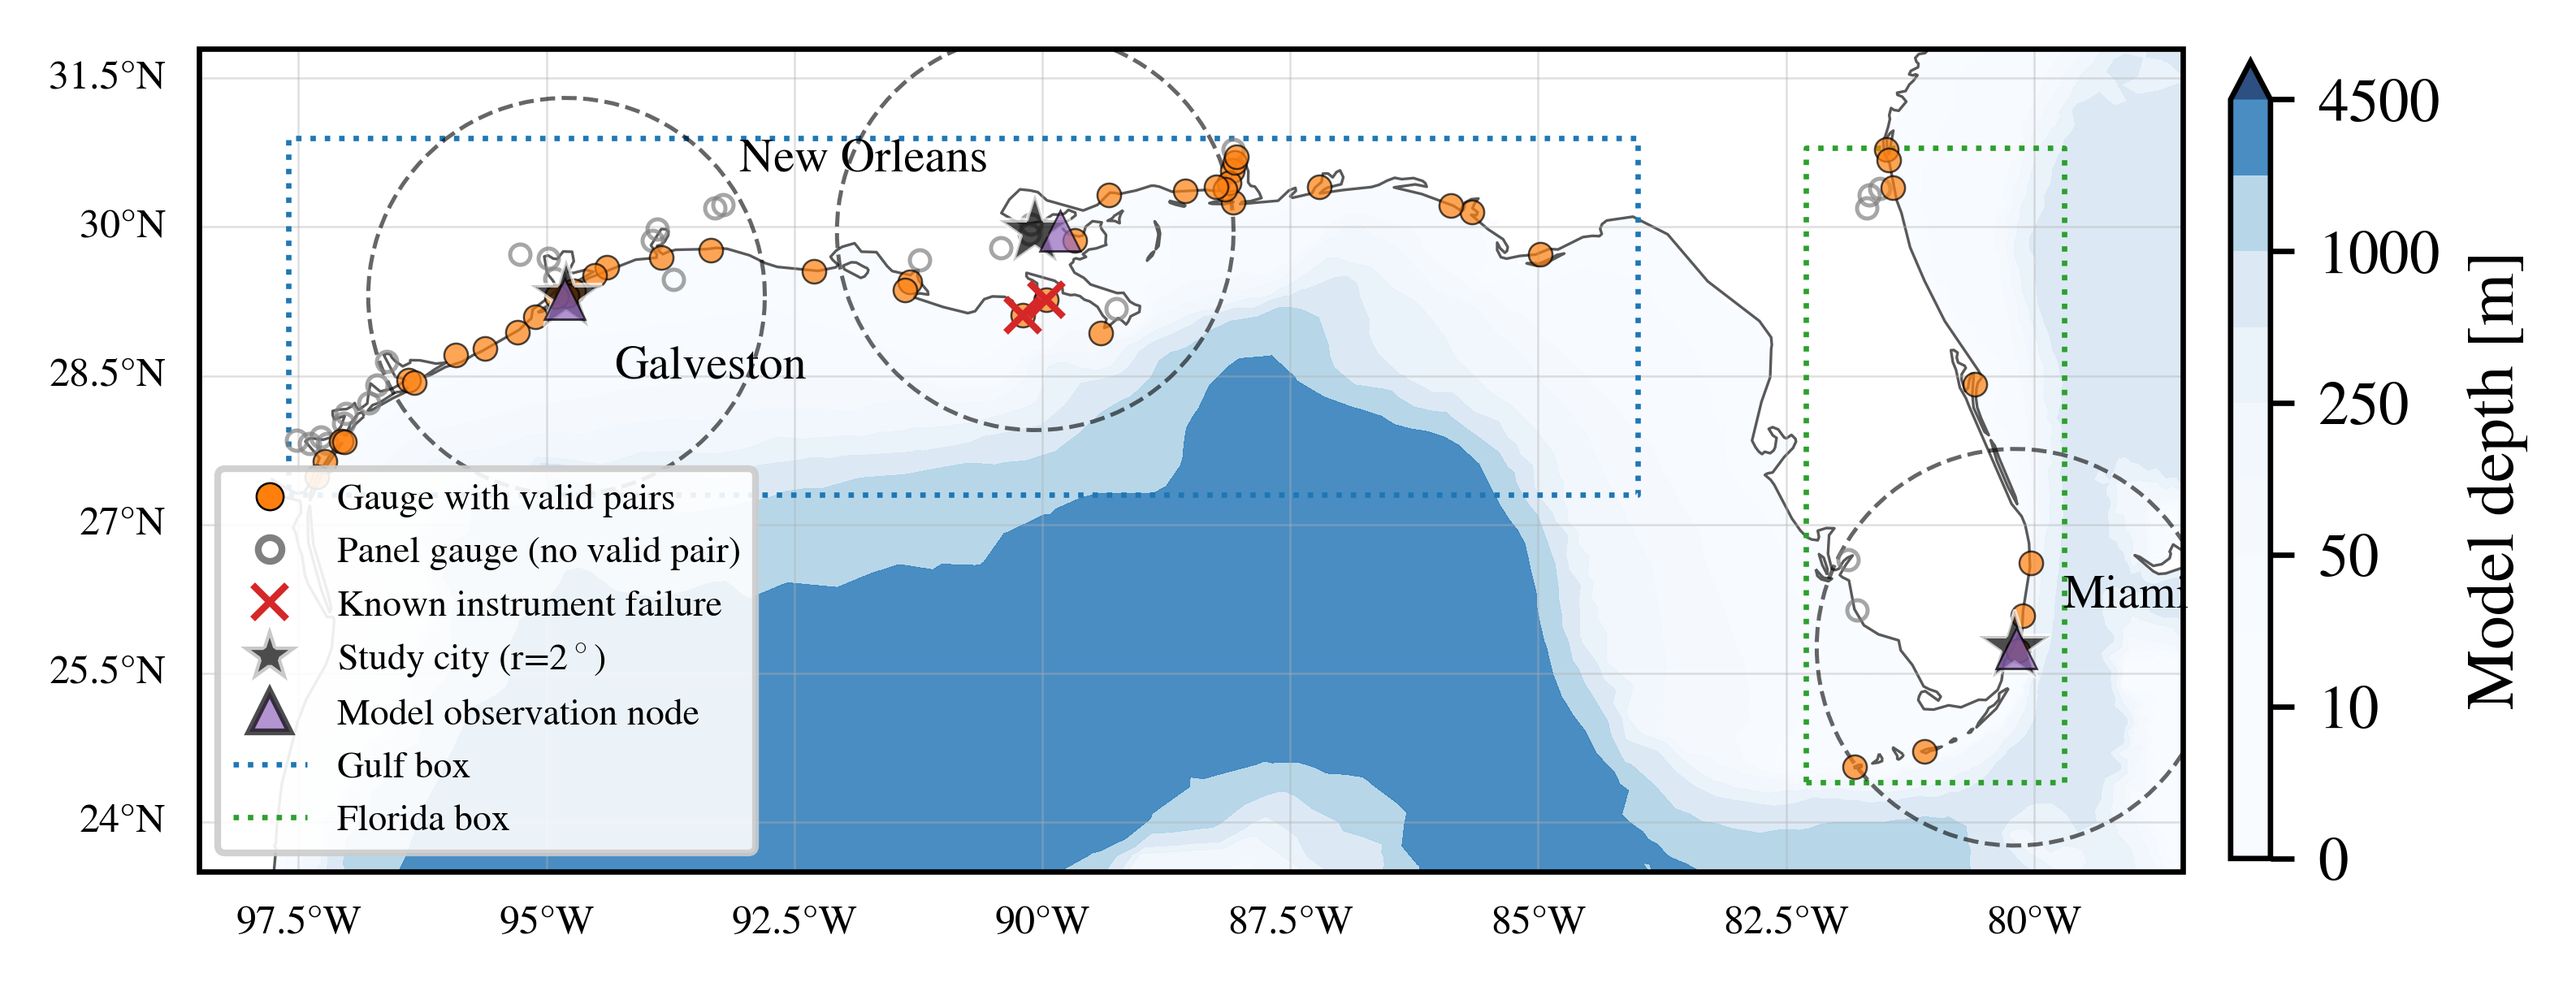
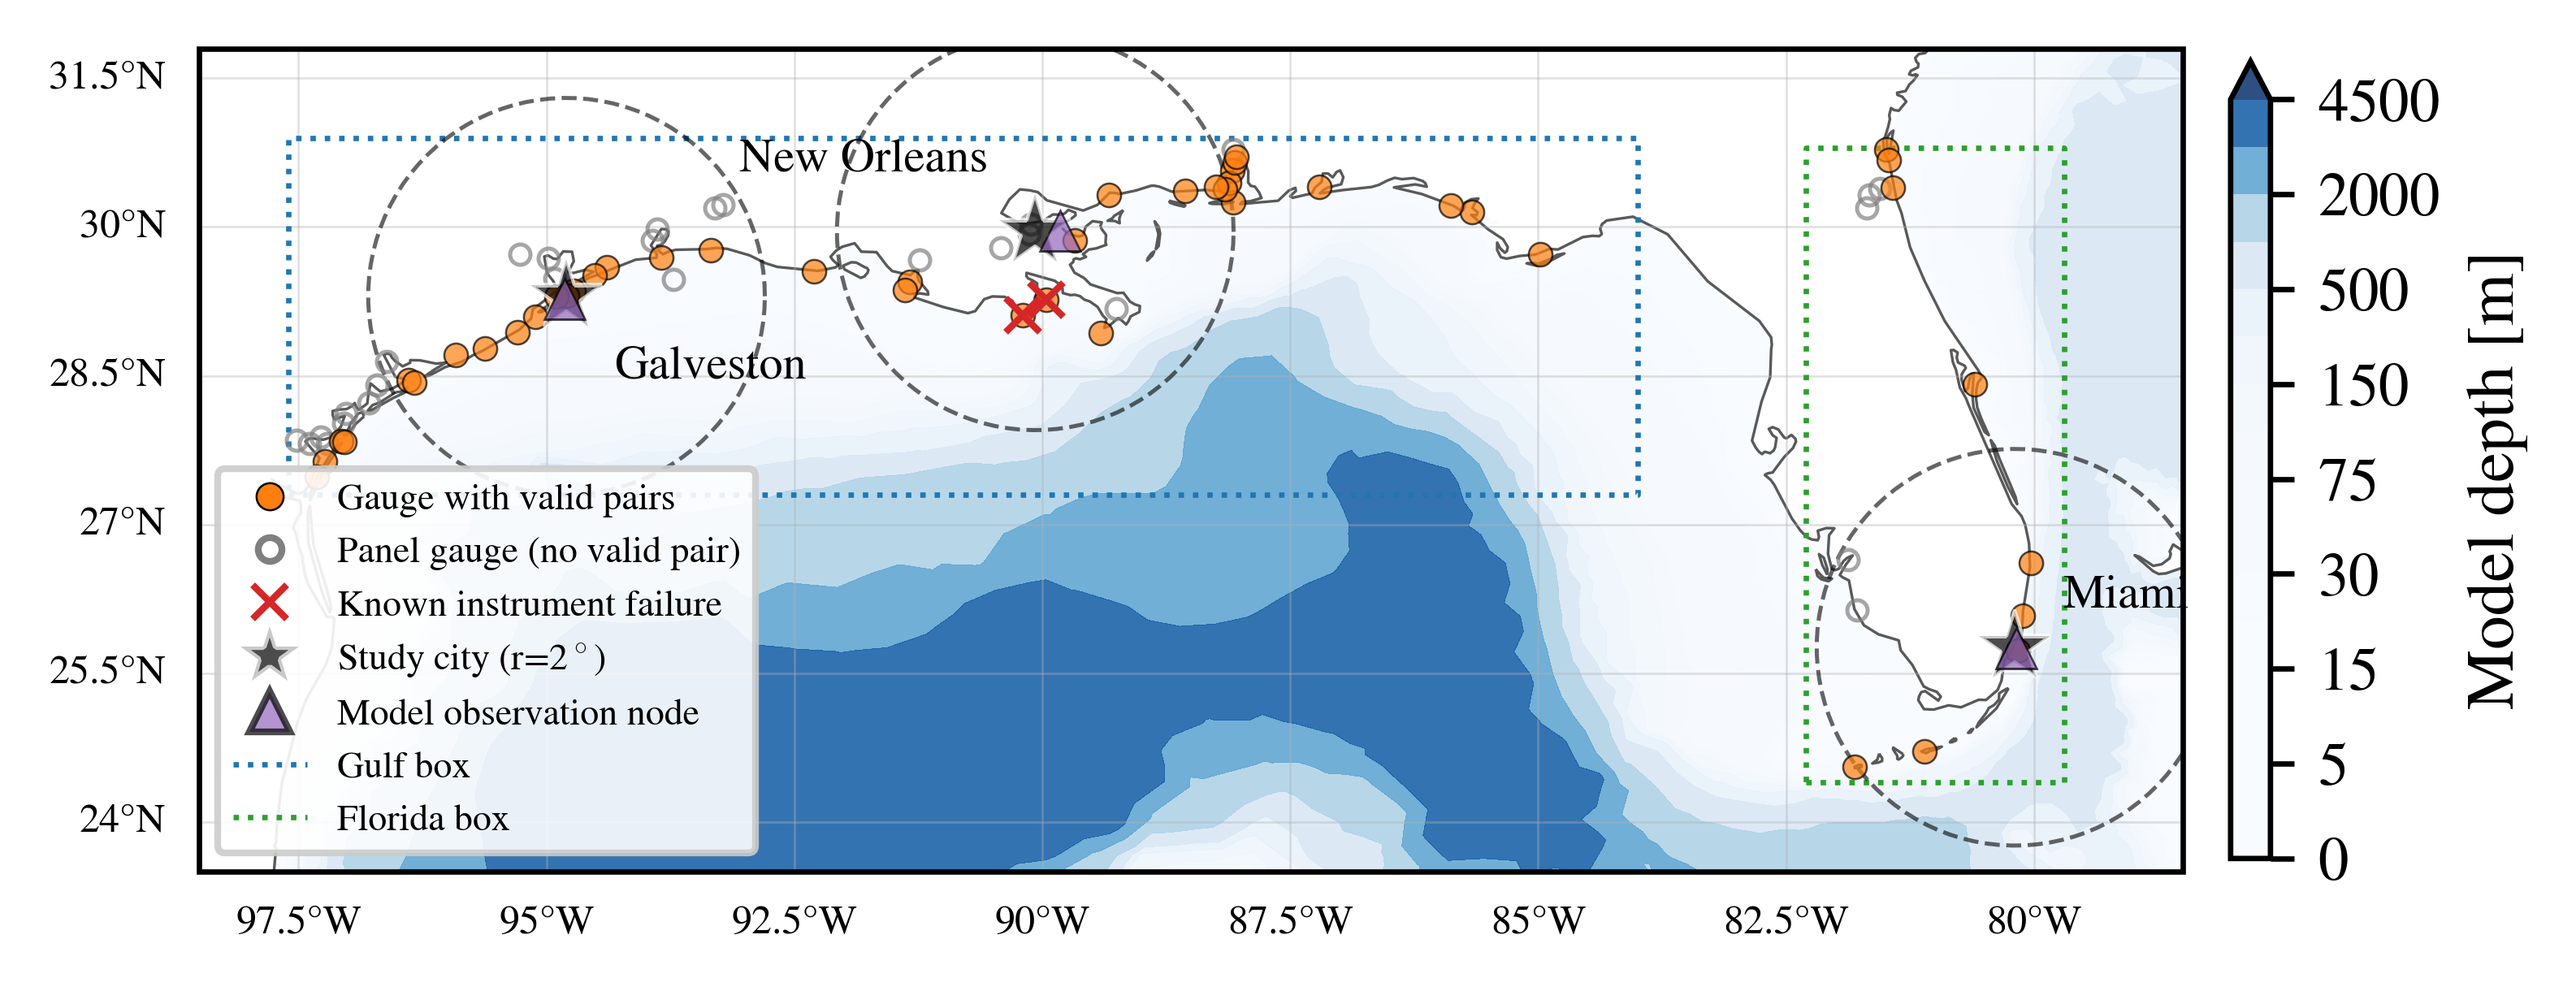
eval city maps: numbered gauges + index key row, finer depth levels
In-map name labels could not be made collision-free in dense clusters
(Mobile Bay, downtown New Orleans); replaced with west->east numbered dots
(white-halo digits) and a three-column full-name key in a dedicated axes
row under the map (cartopy's aspect-locked GeoAxes ignores
subplots_adjust, so the key needs real gridspec space). Bathymetry levels
refined (17 steps, extra shallow-water resolution) so shelf features and
the colorbar read properly.

diff --git a/adforce/eval/validate.py b/adforce/eval/validate.py
@@ -635,7 +635,7 @@ def _draw_mesh_bathymetry(ax, plt, transform=None, edges: bool = True):
     ax.tricontourf(  # model land
         tri, depth, levels=[depth.min() - 1.0, 0.0], colors=["0.92"], zorder=0, **kw
     )
-    levels = [0, 5, 10, 20, 50, 100, 250, 500, 1000, 2000, 4500]
+    levels = [0, 2, 5, 10, 15, 20, 30, 50, 75, 100, 150, 250, 500, 1000, 2000, 3000, 4500]
     cs = ax.tricontourf(
         tri, depth, levels=levels, cmap="Blues", extend="max", zorder=0.4, alpha=0.85, **kw
     )
@@ -962,8 +962,11 @@ def plot_city_gauge_maps(max_deg: float = 2.0) -> None:
             import cartopy.crs as ccrs
             import cartopy.feature as cfeature
 
-            fig = plt.figure(figsize=get_dim(ratio=0.85))
-            ax = plt.axes(projection=ccrs.PlateCarree())
+            fig = plt.figure(figsize=get_dim(ratio=1.05))
+            gs = fig.add_gridspec(2, 1, height_ratios=(4.0, 1.05), hspace=0.14)
+            ax = fig.add_subplot(gs[0], projection=ccrs.PlateCarree())
+            ax_key = fig.add_subplot(gs[1])
+            ax_key.axis("off")
             ax.add_feature(
                 cfeature.COASTLINE.with_scale("10m"), lw=0.5, edgecolor="0.35", zorder=1
             )
@@ -973,7 +976,11 @@ def plot_city_gauge_maps(max_deg: float = 2.0) -> None:
             cs = _draw_mesh_bathymetry(ax, plt, transform=ccrs.PlateCarree(), edges=True)
         except Exception as e:  # pragma: no cover
             print(f"(no cartopy coastline: {e})")
-            fig, ax = plt.subplots(figsize=get_dim(ratio=0.85))
+            fig, (ax, ax_key) = plt.subplots(
+                2, 1, figsize=get_dim(ratio=1.05),
+                gridspec_kw={"height_ratios": (4.0, 1.05), "hspace": 0.14},
+            )
+            ax_key.axis("off")
             ax.grid(alpha=0.3)
             cs = _draw_mesh_bathymetry(ax, plt, edges=True)
 
@@ -996,42 +1003,53 @@ def plot_city_gauge_maps(max_deg: float = 2.0) -> None:
             zorder=2,
         )
 
-        # gauges in extent, sorted by latitude for the label stagger
+        # gauges in extent, numbered west -> east: tiny numbers at the dots
+        # and a full-name index key under the map (long names never collide)
+        import matplotlib.patheffects as pe
+
         local = sorted(
             (
                 (sid, n, la, lo)
                 for sid, (n, la, lo) in gauges.items()
                 if abs(lo - clo) <= m and abs(la - cla) <= m
             ),
-            key=lambda t: -t[2],
+            key=lambda t: t[3],
         )
-        # cluster-indexed offset ladder: the k-th label inside a congested
-        # patch gets the k-th vertical offset, so e.g. the six Mobile-Bay
-        # gauges fan out instead of overprinting
-        DY = (3, 12, -11, 21, -20, 30, -29, 39)
-        placed = []
-        for sid, name, la, lo in local:
+        key_lines = []
+        for k, (sid, name, la, lo) in enumerate(local, start=1):
             if sid in valid_sids:
                 ax.plot(lo, la, "o", ms=4, color="tab:orange", mec="k", mew=0.3, alpha=0.7, zorder=4)
             else:
                 ax.plot(lo, la, "o", ms=3.5, mfc="none", mec="0.5", mew=0.6, alpha=0.7, zorder=3)
             if sid in failed_sids:
                 ax.plot(lo, la, "x", ms=6, color="tab:red", mew=1.0, zorder=5)
-            near = sum(
-                1 for pla, plo in placed if abs(pla - la) < 0.16 and abs(plo - lo) < 1.6
-            )
-            dy = DY[min(near, len(DY) - 1)]
-            ha = "right" if lo > clo + m - 0.75 else "left"  # keep inside the frame
-            placed.append((la, lo))
             ax.annotate(
-                name[:28].rstrip(", "),
+                str(k),
                 (lo, la),
                 textcoords="offset points",
-                xytext=(-5 if ha == "right" else 5, dy),
-                ha=ha,
-                fontsize=5,
+                xytext=(3, 3),
+                fontsize=5.5,
+                fontweight="bold",
                 zorder=7,
+                path_effects=[pe.withStroke(linewidth=1.4, foreground="white")],
             )
+            key_lines.append(f"{k:>2} {name[:30].rstrip(', ')}")
+        # index key in up to three columns in its own axes row
+        ncol_key = 3
+        per = int(np.ceil(len(key_lines) / ncol_key)) or 1
+        for c in range(ncol_key):
+            chunk = key_lines[c * per : (c + 1) * per]
+            if chunk:
+                ax_key.text(
+                    0.02 + 0.34 * c,
+                    1.0,
+                    "\n".join(chunk),
+                    fontsize=5.4,
+                    family="serif",
+                    va="top",
+                    ha="left",
+                    transform=ax_key.transAxes,
+                )
         from matplotlib.lines import Line2D
 
         ax.legend(
